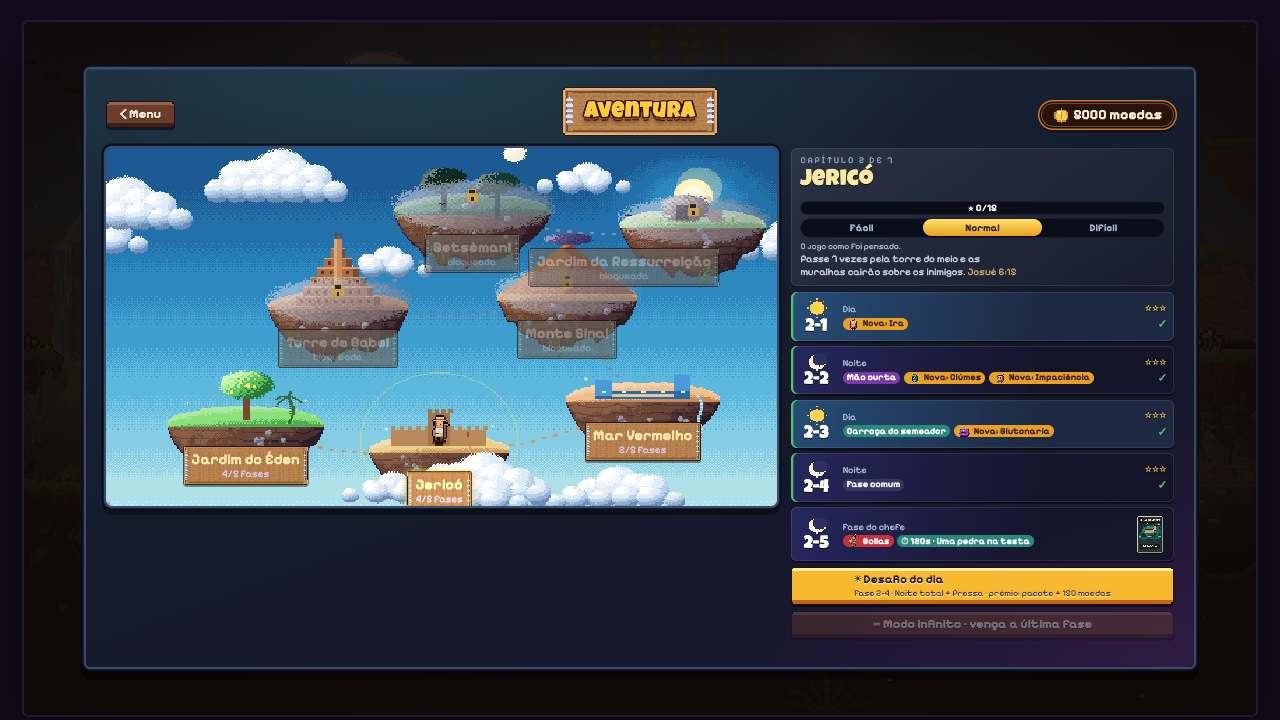
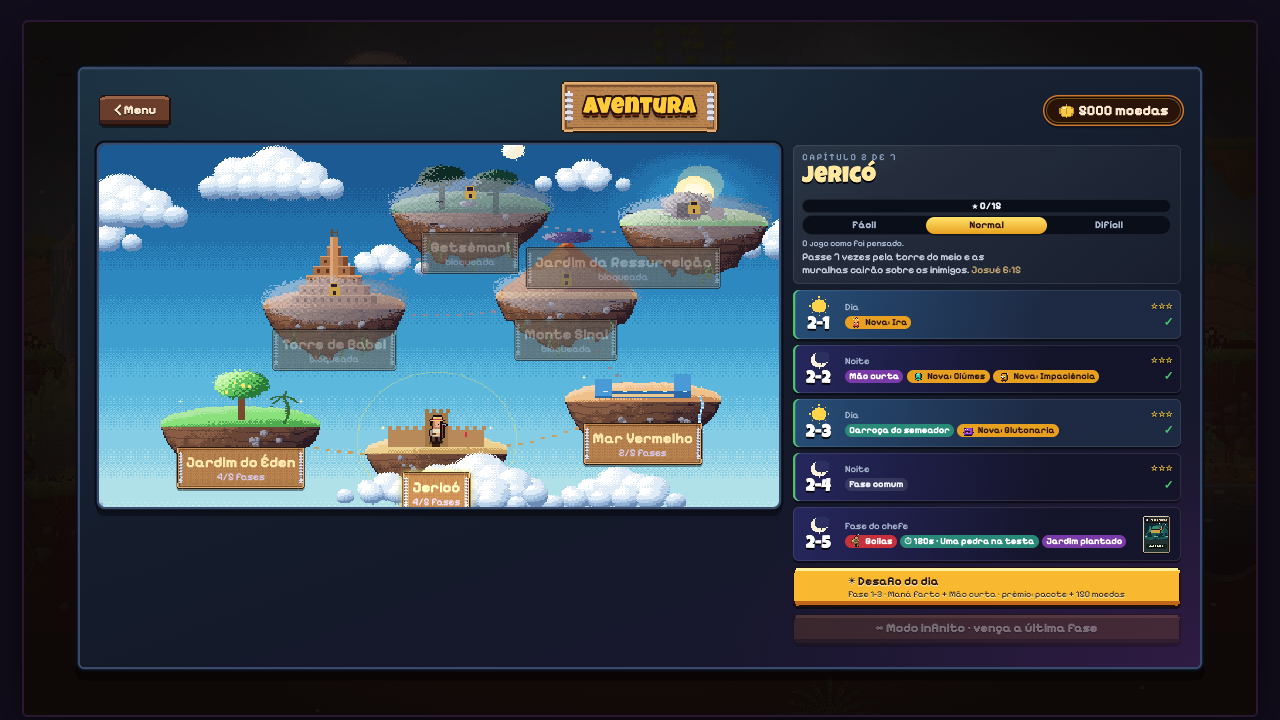
Polimento: céu noturno frio, setas e fúria dos chefes, modos de fase, Códex com descobertas
Noite: as fases de noite usam o céu frio em vez do entardecer. Carvalho de
Manre e Cacho de Escol ganham evolução final e uma fusão cada.

Chefes: setas na tela mostram onde agir, cada chefe ganha um ataque a mais
na fúria, e três fases jogam em outro modo (jardim já plantado com carroça
só de bênçãos contra Golias e o Bezerro; neblina contra Ninrode).

Códex: fusões e evoluções ficam ocultas até serem feitas. Contador de
árvores ao lado da mão; marca de plantio vermelha com o jardim cheio.
Tutorial atualizado para o plantio livre e as fases de chefe.

Duas relíquias (Cordel de Medir, Podão do Vinhateiro) e três conquistas.

Changed region(s): [[0.0625, 0.0917, 0.9375, 0.9167]]

diff --git a/js/ui.js b/js/ui.js
@@ -59,7 +59,7 @@ function updHUD(){
   const ab=$('abilbtn');if(ab){const f=(S.abil||0)/abilCD();ab.style.setProperty('--cd',f);ab.classList.toggle('ready',f<=0)}
   $('fruits').hidden=!sysOn('fruitset');
   const sh=[sysOn('basket')?'Cesto '+S.basket+'/5'+(S.basket>=5?' · pisão de colheita!':''):''];
-  if(S.tw)sh.unshift('Árvores '+treesNow()+'/'+treeCap());
+  {const tc=$('treecap'),n=treesNow(),c=treeCap();tc.textContent='Árvores '+n+'/'+c;tc.classList.toggle('full',n>=c)}
   if(MAPID==='jerico')sh.push(S.fallen?'As muralhas caíram':'Voltas pela torre: '+S.laps+'/7');
   if(S.folk)sh.push(S.folk.saved?'O povo atravessou':'Leve o povo à outra margem');
   if(S.idol)sh.push(S.idol.hp>0?'Ídolo: faltam '+S.idol.hp+' pisões':'Ídolo destruído');
@@ -87,9 +87,9 @@ let tutTree=-1;
 const freeBed=()=>{let b=-1,bd=1e9;MAP.slots.forEach((s,i)=>{if(S.tw[i]||s.y<150||MAP.plats.some(p=>s.x>p.x-6&&s.x<p.x+p.w+6&&p.y<s.y))return;const d=Math.abs(s.x-S.p.x)+(s.x<S.p.x?40:0);if(d<bd){bd=d;b=i}});return b};
 const handIdx=f=>S.hand.findIndex(c=>c&&f(c));
 const TUT=[
-  {id:'walk',keys:['←','→'],txt:'Ande até o canteiro',world:()=>{const i=freeBed();return i<0?null:MAP.slots[i]},done:()=>S.p.moved>30},
+  {id:'walk',keys:['←','→'],txt:'Ande até um bom lugar',world:()=>{const i=freeBed();return i<0?null:MAP.slots[i]},done:()=>S.p.moved>30},
   {id:'jump',keys:['↑'],txt:'Pule',world:()=>({x:S.p.x,y:S.p.y-26}),done:()=>S.p.jumped},
-  {id:'plant',keys:['1'],txt:'Pare no canteiro e plante',world:()=>{const i=freeBed();return i<0?null:MAP.slots[i]},card:()=>handIdx(c=>info(c).kinds)},
+  {id:'plant',keys:['1'],txt:'Pare e plante: vale qualquer chão',world:()=>{const i=freeBed();return i<0?null:MAP.slots[i]},card:()=>handIdx(c=>info(c).kinds)},
   {id:'water',keys:[],txt:'Fique perto: ela é regada e cresce',world:()=>tutTree>=0?{x:MAP.slots[tutTree].x,y:MAP.slots[tutTree].y-22}:null,done:()=>tutTree>=0&&S.tw[tutTree]&&(S.tw[tutTree].water||0)>=1},
   {id:'slam',keys:['↑','↓'],txt:'Pule e caia em cima dela',world:()=>tutTree>=0?{x:MAP.slots[tutTree].x,y:MAP.slots[tutTree].y-34}:null},
   {id:'bless',keys:['2'],txt:'Use a bênção',card:()=>handIdx(c=>catOf(c)==='bencao'),enter:()=>{
@@ -180,7 +180,7 @@ function showTitle(){
       <button class="btn ghost" data-go="daily">Desafio diário${best!=null?' · recorde '+best:''}</button>
       <div class="row"><button class="btn ghost" data-go="codex">Códex</button><button class="btn ghost" data-go="achs">Conquistas ${Object.keys(META.ach).length}/${Object.keys(ACH).length}</button></div>
     </div>
-    <p class="keys">← → andar · ↑ pular · ↓ no ar: pisão · 1 a 4 jogar carta (ou toque na carta e depois no canteiro) · Enter chama a onda · M som</p></div>`);
+    <p class="keys">← → andar · ↑ pular · ↓ no ar: pisão · 1 a 4 jogar carta (ou arraste a carta até onde quer plantar) · Enter chama a onda · M som</p></div>`);
 }
 GO.cont=()=>{const sv=store.get('fds-run',null);if(!sv)return showTitle();RUN=sv.RUN;UID=sv.UID;initAudio();RUN.needDeck?showDeck():showJourney()};
 GO.newrun=()=>showChars();
@@ -322,7 +322,7 @@ function pickCards(title,sub,filter,n,onDone){
     $('skip').onclick=()=>onDone(null);$('go').onclick=()=>onDone(chosen)};render();
 }
 function prune(c){RUN.deck=RUN.deck.filter(k=>k!==c);RUN.coll=RUN.coll.filter(k=>k!==c);RUN.podas++;META.stats.podas++;saveMeta();if(META.stats.podas>=10)unlockAch('poda')}
-function graft(a,b){const h=mk('hyb',{hyb:[a.k,b.k],rare:a.rare||b.rare});[a,b].forEach(c=>{RUN.deck=RUN.deck.filter(k=>k!==c);RUN.coll=RUN.coll.filter(k=>k!==c)});RUN.deck.push(h);RUN.coll.push(h);return h}
+function graft(a,b){const h=mk('hyb',{hyb:[a.k,b.k],rare:a.rare||b.rare});{const F=fusionOf(a.k,b.k);if(F)discover('f',F.a+'+'+F.b)}[a,b].forEach(c=>{RUN.deck=RUN.deck.filter(k=>k!==c);RUN.coll=RUN.coll.filter(k=>k!==c)});RUN.deck.push(h);RUN.coll.push(h);return h}
 const baseSeed=c=>!c.hyb&&CARDS[c.k].type==='semente';
 function podaMany(n,then){const loop=left=>{if(!left||RUN.deck.length<=6)return then();
   pickCards('Podar','Escolha uma carta para sair da bolsa. Ainda pode podar '+left+'. A bolsa precisa de pelo menos 6.',()=>true,1,ch=>{if(!ch)return then();prune(ch[0]);loop(left-1)})};loop(n)}
@@ -502,9 +502,13 @@ function showCodex(tab){
   if(tab==='vizinhas')body=`<div class="ccrules"><span style="--c:#4faa4a">Árvores a até 72 passos se ligam por ramos</span><span style="--c:#e8a020">Frutos diferentes juntos: +10% de dano</span><span style="--c:#9b5ae0">Perto de uma Videira: +25% (João 15:5)</span><span style="--c:#c8403a">A Discórdia corta ramos ao passar por baixo</span></div>
     <div class="grid ccg pairs">${PAIRS.map((p,i)=>ccard({col:FRUIT_COL[FRUIT[p.a]],name:p.name,art:`<canvas width="288" height="144" data-pair="${i}"></canvas>`,body:`<b class="ccsub">${CARDS[p.a].name} + ${CARDS[p.b].name}</b><p>Juntas, ${p.desc}.</p>`,ref:p.ref})).join('')}</div>
     <h3 class="cxh">Fusões</h3><div class="ccrules"><span style="--c:#7a4aa0">No Altar, enxerte estas duas sementes: a árvore nasce com força total e um poder próprio</span></div>
-    <div class="grid ccg pairs">${FUSIONS.map((f,i)=>ccard({col:FRUIT_COL[FRUIT[f.a]]||'#7a4aa0',name:f.name,art:`<canvas width="288" height="144" data-fusion="${i}"></canvas>`,body:`<b class="ccsub">${CARDS[f.a].name} + ${CARDS[f.b].name}</b><p>${f.desc} (a cada ${f.every}s)</p>`,ref:f.ref})).join('')}</div>
+    <p class="help">${FUSIONS.filter(f=>(META.seen.f||{})[f.a+'+'+f.b]).length} de ${FUSIONS.length} fusões descobertas.</p>
+    <div class="grid ccg pairs">${FUSIONS.map((f,i)=>(META.seen.f||{})[f.a+'+'+f.b]?ccard({col:FRUIT_COL[FRUIT[f.a]]||'#7a4aa0',name:f.name,art:`<canvas width="288" height="144" data-fusion="${i}"></canvas>`,body:`<b class="ccsub">${CARDS[f.a].name} + ${CARDS[f.b].name}</b><p>${f.desc} (a cada ${f.every}s)</p>`,ref:f.ref})
+      :ccard({col:'#3a3040',name:'???',cls:'unk',art:'',body:`<b class="ccsub">${CARDS[f.a].name} + ???</b><p>Enxerte para descobrir.</p>`})).join('')}</div>
     <h3 class="cxh">Evoluções</h3><div class="ccrules"><span style="--c:#e8a020">Depois de escolher o galho, toque na árvore e evolua por ${EVO_COST} de maná: +20% de dano e um poder próprio</span></div>
-    <div class="grid ccg">${Object.entries(EVO).map(([k,v])=>ccard({col:FRUIT_COL[FRUIT[k]]||'#5a8a4a',name:v.name,tag:CARDS[k].name,art:`<canvas width="32" height="32" data-evo="${k}"></canvas>`,body:`<p>${v.desc} (a cada ${v.every}s)</p>`,ref:v.ref})).join('')}</div>`;
+    <p class="help">${Object.keys(EVO).filter(k=>(META.seen.v||{})[k]).length} de ${Object.keys(EVO).length} evoluções descobertas.</p>
+    <div class="grid ccg">${Object.entries(EVO).map(([k,v])=>(META.seen.v||{})[k]?ccard({col:FRUIT_COL[FRUIT[k]]||'#5a8a4a',name:v.name,tag:CARDS[k].name,art:`<canvas width="32" height="32" data-evo="${k}"></canvas>`,body:`<p>${v.desc} (a cada ${v.every}s)</p>`,ref:v.ref})
+      :ccard({col:'#3a3040',name:'???',tag:CARDS[k].name,cls:'unk',art:`<canvas width="32" height="32" data-evo="${k}"></canvas>`,body:'<p>Evolua esta árvore numa batalha para descobrir.</p>'})).join('')}</div>`;
   if(tab==='inimigos')body=`<p class="help">Passe o mouse numa carta para ver a praga se mexer.</p><div class="grid ccg">${Object.entries(EN).filter(([,d])=>!d.hide).sort(([a],[b])=>{const o=k=>{const i=PEST_ORDER.indexOf(k);return i<0?99:i};return o(a)-o(b)}).map(([k,d])=>{const seen=META.seen.e[k];
     return seen?ccard({col:d.c,name:d.name,tag:d.boss?'Chefe':d.elite?'Elite':'',art:`<canvas width="48" height="48" data-enemy="${k}" data-anim="${k}"></canvas>`,
       body:`<div class="cattr">${[['Vida',lvlOf(d.hp,[4,8,12,30]),'#ff5a6a'],['Velocidade',lvlOf(d.spd,[12,18,25,33]),'#5ad0ff'],['Dano',lvlOf(d.dmg,[2,3,5,8]),'#ffa040']].map(([l,v,c])=>`<span>${l}</span><i style="--c:${c}">${[1,2,3,4,5].map(n=>`<u class="${n<=v?'on':''}"></u>`).join('')}</i>`).join('')}</div>

diff --git a/js/bosses.js b/js/bosses.js
@@ -5,7 +5,10 @@ function bossStageStart(L){const B=BSTAGE[L.wi];
   S.hand=[null,null,null,null,null];S.draw=[];S.convT=.5;RUN.handSize=5;renderHand();
   if(B.boss==='leviata')S.bs.hook={x:Math.round(MAP.ww*.55)};
   if(B.boss==='sombra')S.bs.lamps=[.28,.5,.72].map(f=>({x:Math.round(MAP.ww*f),lit:0}));
-  banner('Fase do chefe · '+B.ref,B.rule);toast(EN[B.boss].name+': '+B.rule,B.tip)}
+  // a garden already planted for the stages that bring only blessings: the beds nearest home, grown and ready
+  if(B.pre){const beds=MAP.slots.map((s,i)=>[s,i]).filter(([s])=>!s.free&&s.soil!=='pedra'&&Math.abs(s.y-gy(s.x))<2).sort((a,b)=>a[0].x-b[0].x);
+    B.pre.forEach((k,j)=>{if(!beds[j])return;const i=beds[j][1];plantAt(i,[k],false,0);Object.assign(S.tw[i],{grow:1,lvl:1,water:1})})}
+  banner('Fase do chefe · '+B.ref,B.rule);toast(EN[B.boss].name+': '+B.rule,B.tip);if(B.mode)toast('Modo da fase',B.mode)}
 
 function bossStageUpdate(dt){const B=S.bstage,Z=S.bs;
   // the seed cart: free cards from this boss's own list, mana always full
@@ -19,6 +22,13 @@ function bossStageUpdate(dt){const B=S.bstage,Z=S.bs;
   // escorts from this world keep coming while the boss lives
   Z.escT-=dt;if(Z.escT<=0){Z.escT=e.ph2?5.5:7.5;const pool=levelPool(BSTAGE.indexOf(B)*4+3);spawn(rpick(pool));S.total++}
   const P=S.p;
+  // furious, every boss gains one more attack of its own (Goliath shakes the ground, Nimrod shoots the trees: see below and bossAIx)
+  if(e.ph2&&!(e.dive>0)){Z.p2=(Z.p2??4)-dt;if(Z.p2<=0){Z.p2=9;const ahead=(rad,n)=>MAP.slots.map((s,i)=>[s,S.tw[i],i]).filter(([s,t])=>t&&t.grow>=1&&!(t.ark>0)&&Math.abs(s.x-e.x)<rad).sort((a,b)=>Math.abs(a[0].x-e.x)-Math.abs(b[0].x-e.x)).slice(0,n);
+      if(e.k==='serpente')ahead(130,1).forEach(([s,t])=>{t.joio=true;S.fx.push({k:'zap',x1:e.x-EN.serpente.w*.42,y1:e.y-24,x2:s.x,y2:s.y-12,t:0,max:.4});pop(s.x,s.y-34,'envenenada! um pisão limpa','#9ff05a',8);burst(s.x,s.y-10,12,['#9ff05a','#2f7a2f'],50,120,.6)});
+      if(e.k==='farao'){e.x-=36;for(const f of S.fences)if(Math.abs(f.x-e.x)<44)f.hp=0;shake(8);sfx('horn');pop(e.x,e.y-EN.farao.h-8,'os carros avançam!','#5a8aff',9);burst(e.x+20,e.y-4,16,['#e8c890','#c9a070'],90,120,.5)}
+      if(e.k==='bezerro')ahead(150,2).forEach(([s,t,i])=>{if(acaciaGuard(i))return;t.seduced=true;pop(s.x,s.y-34,'ofuscada pelo ouro: pisão liberta','#ffe36a',8)});
+      if(e.k==='leviata'){shake(8);sfx('splash');S.fx.push({k:'ring',x:e.x,y:e.y-6,r:4,max:110,t:0,c:'#5af0c0'});ahead(110,9).forEach(([s,t])=>{t.stun=Math.max(t.stun,2);pop(s.x,s.y-30,'a cauda varreu','#5af0c0',7)});if(Math.abs(P.x-e.x)<80&&!(S.shieldT>0)){P.stun=.6;P.vx=-160;P.vy=-120;P.on=false}}
+      if(e.k==='sombra'){const l=Z.lamps.find(l=>l.lit>0);if(l){l.lit=0;pop(l.x,gy(l.x)-40,'a Sombra apagou a lâmpada','#a080ff',8);sfx('wind')}}}}
   if(B.boss==='golias'){
     // smooth stones from the brook (1 Sm 17:40): walk over one and it flies at Goliath's forehead
     Z.stoneT-=dt;if(Z.stoneT<=0&&Z.stones.length<3){Z.stoneT=8;const x0=clamp(rnd(S.cam+30,Math.min(e.x-50,S.cam+W-40)),20,MAP.ww-20);Z.stones.push({x:x0,t:0});pop(x0,gy(x0)-14,'pedra lisa','#d0d0d8',8)}
@@ -65,7 +75,15 @@ function bossHud(){const Z=S.bs,B=S.bstage;if(!Z)return'';const e=Z.boss,m=Math.
   return B.rule+' · ⏱ '+m+':'+s+(B.boss==='golias'?' · pedras: '+S.pstones:'')+(B.boss==='sombra'?' · lâmpadas '+Z.lamps.filter(l=>l.lit>0).length+'/3':'')}
 
 // stones in the brook, the golden hook, the lamps on their posts
-function drawBossStage(){const Z=S.bs;if(!Z)return;
+// a bobbing arrow with a word over the thing the rule is about: the head when it is down, a stone, the hook, a dark lamp
+function bossArrow(ax,ay,txt,c='#ffe36a'){const y=ay+Math.round(Math.sin(S.t*6)*2);r(ax-3,y,7,2,'#1a0c10');r(ax-2,y+2,5,1,'#1a0c10');r(ax-1,y+3,3,1,'#1a0c10');r(ax-1,y-4,3,4,'#1a0c10');
+  r(ax-.5,y-3.5,2,4,c);r(ax-2.5,y,6,1,c);r(ax-1.5,y+1,4,1,c);r(ax-.5,y+2,2,1,c);if(txt){x.font='700 6px "Pixelify Sans", monospace';x.textAlign='center';x.lineJoin='round';x.lineWidth=2;x.strokeStyle='#1a0806';x.strokeText(txt,ax,y-6);x.fillStyle=c;x.fillText(txt,ax,y-6)}}
+function drawBossFog(){const P=S.p,c0=S.cam-4,c1=S.cam+W+4;x.fillStyle='#b8b0c8';for(let u=c0;u<c1;u+=4){const d=Math.abs(u+2-P.x),a=clamp((d-70)/50,0,1)*.88;if(a<=0)continue;x.globalAlpha=a*(.92+.08*Math.sin(S.t*1.3+u*.05));x.fillRect(u,20,4,H)}x.globalAlpha=1}
+function drawBossStage(){const Z=S.bs;if(!Z)return;{const e=Z.boss;if(e&&e.hp>0&&live()){
+    if(e.k==='serpente'&&e.headDown>0)bossArrow(e.x-EN.serpente.w*.42,e.y-34,'pisão na cabeça!');
+    for(const s of Z.stones)bossArrow(s.x,gy(s.x)-14,'pedra');
+    if(Z.hook&&!(e.dive>0)&&Math.abs(e.x-Z.hook.x)<60&&!(e.hooked>0))bossArrow(Z.hook.x,gy(Z.hook.x)-44,'pisão no anzol!');
+    for(const l of Z.lamps)if(!l.lit)bossArrow(l.x,gy(l.x)-46,'acenda','#ffe9a0')}}
   for(const s of Z.stones){const y=gy(s.x)-2+Math.round(Math.sin(s.t*4)),f=(S.t*6|0)%2;disc(s.x,y,2.5,'#9a9aa8');r(s.x-1,y-2,2,1,'#e0e0e8');if(f){r(s.x+3,y-5,1,1,'#ffffff');r(s.x-4,y-4,1,1,'#ffffff')}}
   if(Z.hook){const hx=Z.hook.x,gyy=gy(hx),sw=Math.round(Math.sin(S.t*2)*2),hy=gyy-26;for(let y=0;y<hy;y+=2)r(hx+Math.round(sw*y/hy),y,1,1,'#c8b090');
     r(hx+sw-1,hy,3,6,'#f7c948');r(hx+sw-3,hy+5,3,2,'#f7c948');r(hx+sw-3,hy+3,1,2,'#f7c948');r(hx+sw,hy,1,1,'#fff6c0');

diff --git a/js/game.js b/js/game.js
@@ -2,7 +2,7 @@
 let S=null,RUN=null;
 // saved progress is merged over these defaults key by key (nested objects too), so saves from older versions gain new fields
 const META_DEFAULTS={celeiro:store.get('jardim-do-fruto-celeiro',[]),chars:{lavrador:1},ascMax:0,stats:{kills:0,podas:0,runs:0,wins:0},ach:{},tut:0,daily:{},
-  coins:0,char:'lavrador',weapon:'enxada',weapons:{enxada:1},items:{cerca:2,espantalho:1,lama:2},upg:{hearts:0,bag:0,mana:0,treeHearts:0,trees:0},wtier:{},itier:{},done:{},unlocked:['videira','mana'],seen:{c:{},e:{},r:{}},
+  coins:0,char:'lavrador',weapon:'enxada',weapons:{enxada:1},items:{cerca:2,espantalho:1,lama:2},upg:{hearts:0,bag:0,mana:0,treeHearts:0,trees:0},wtier:{},itier:{},done:{},unlocked:['videira','mana'],seen:{c:{},e:{},r:{},f:{},v:{}},
   garden:{pots:[],potsN:8,seeds:{trigo:2,'t:videira':1},adubo:1,spray:3,mel:1,fertil:0,treeSeed:0,tree:{planted:false,lvl:0,xp:0,lastWater:0},lastVisit:0},
   stars:{},talents:{},cardLv:{},copies:{},foil:{},sysSeen:{},dlg:{},endless:{},mg:{},missions:null,intro:0,v:2};
 function fillDefaults(t,d){for(const k in d){const dv=d[k];if(t[k]===undefined||t[k]===null&&dv!==null)t[k]=structuredClone(dv);
@@ -230,7 +230,7 @@ function doSlam(){if(S.bstage)bossStomp(S.p);mission('slam',1);onoma(S.p.x,S.p.y
 // ---------- a garden holds only so many trees: more in later worlds, and more with the Quitanda's "Canteiro extra".
 // With planting free everywhere, the limit is what makes you choose: pull one up, or make the ones you have stronger.
 const treesNow=()=>S.tw.filter(Boolean).length;
-function treeCap(){const up=(META.upg&&META.upg.trees)||0;return(RUN&&RUN.mode==='level'?6+LEVELS[RUN.level].wi+(LEVELS[RUN.level].bossStage?3:0):8+(RUN?RUN.act*2:0))+up}
+function treeCap(){const up=(META.upg&&META.upg.trees)||0;return(RUN&&RUN.mode==='level'?6+LEVELS[RUN.level].wi+(LEVELS[RUN.level].bossStage?3:0):8+(RUN?RUN.act*2:0))+up+(relic('canteiro')?2:0)}
 const slotAt=()=>MAP.slots.findIndex(s=>Math.abs(s.x-S.p.x)<12&&Math.abs(s.y-S.p.y)<3);
 
 // ---------- trees
@@ -250,7 +250,7 @@ const footOf=kinds=>Math.max(...kinds.map(k=>FOOT[k]||12))+(kinds.length>1?2:0);
 // the surface nearest to a world point: an island top or the ground
 function surfaceAt(wx,wy){let best=gy(wx),bd=Math.abs(best-8-wy);for(const p of MAP.plats){if(wx<p.x+3||wx>p.x+p.w-3)continue;const d=Math.abs(p.y-8-wy);if(d<bd){bd=d;best=p.y}}return best}
 // why a tree cannot stand here, or '' when it can
-function plantCheck(x0,y0,kinds){if(x0<58)return'perto demais do Éden';if(x0>MAP.ww-46)return'perto demais do portal';
+function plantCheck(x0,y0,kinds){if(treesNow()>=treeCap())return'jardim cheio: '+treeCap()+' árvores';if(x0<58)return'perto demais do Éden';if(x0>MAP.ww-46)return'perto demais do portal';
   const onPl=MAP.plats.some(p=>Math.abs(p.y-y0)<1.5&&x0>=p.x&&x0<=p.x+p.w);
   if(!onPl&&(inWater(x0)||MAP.sea&&x0>=MAP.sea[0]&&x0<MAP.sea[1]))return'na água não cresce';
   if(!onPl&&Math.abs(gy(x0)-y0)>3)return'precisa de chão firme';
@@ -266,6 +266,7 @@ function plantAt(si,kinds,rare,delay=.6,plus=false){
   const s=MAP.slots[si];
   if(S.tw[si])burst(s.x,s.y-10,10,['#7a5a3a','#5fe08a'],50,200,.5);
   S.tw[si]={kinds,cd:{},dcd:0,grow:-delay,t:0,pulse:0,soil:s.soil,rare,plus,age:0,lvl:0,joio:false,stun:0,charge:0,heal:0,awake:20,fruitT:rnd(0,6),mods:null,ark:0,seduced:false,sleep:false};
+  if(kinds.length>1){const F=fusionOf(kinds[0],kinds[1]);if(F)discover('f',F.a+'+'+F.b)}
   sfx('card');pop(s.x,s.y-30,...SOIL_MSG[s.soil]);mission('plant',1);
   tutEvent('plant',si);
 }
@@ -721,6 +722,10 @@ const POWER={
   acacia(t,s){pwTrees(s,80).forEach(([o])=>o.ark=Math.max(o.ark||0,4));S.fx.push({k:'ring',x:s.x,y:s.y-14,r:4,max:80,t:0,c:'#f7c948'})},
   murta(t,s){pwTrees(s,80).forEach(([o,q])=>water(o,q,1))},
   nogueira(t,s,m){const L=pwNear(s,90);if(!L.length)return false;L.forEach(e=>{breakShell(e);damage(e,8*m,'nogueira')});shake(5)},
+  carvalho(t,s){const L=S.en.filter(e=>e.hp>0&&!EN[e.k].fly&&Math.abs(e.x-s.x)<50);if(!L.length)return false;L.forEach(e=>e.frz=Math.max(e.frz,EN[e.k].boss?.6:2));S.fx.push({k:'ring',x:s.x,y:s.y-8,r:4,max:50,t:0,c:'#8ac060'})},
+  escol(t,s,m){const L=pwNear(s,130).slice(0,3);if(!L.length)return false;L.forEach(e=>lob(s.x,s.y-22,e,'cluster',9*m,'escol',.7))},
+  'carvalho+oliveira'(t,s){const L=S.en.filter(e=>e.hp>0&&!EN[e.k].fly&&Math.abs(e.x-s.x)<50);if(!L.length)return false;L.forEach(e=>e.frz=Math.max(e.frz,EN[e.k].boss?.5:1.5));S.fx.push({k:'ring',x:s.x,y:s.y-8,r:4,max:50,t:0,c:'#9fe8ff'})},
+  'escol+videira'(t,s,m){S.mana=Math.min(MAXM,S.mana+2);const e=nearest(s.x,s.y-16,120);if(e)lob(s.x,s.y-22,e,'cluster',9*m,'escol',.7)},
   'videira+macieira'(t,s){S.mana=Math.min(MAXM,S.mana+2);pop(s.x,s.y-30,'+2 maná','#c58cff')},
   'roma+sarca'(t,s,m){if(!pwNear(s,40).length)return false;beam(s.x,18,12*m)},
   'oliveira+salgueiro'(t,s){const L=pwNear(s,90);if(!L.length)return false;L.forEach(e=>e.slow=Math.max(e.slow,3));S.fx.push({k:'ring',x:s.x,y:s.y-10,r:4,max:90,t:0,c:'#9fe8ff'})},

diff --git a/js/content.js b/js/content.js
@@ -417,3 +417,23 @@ POOL.push('carvalho','escol','carruagem','multiplica','maos','lazaro','sol','dil
 Object.assign(STATS,{carvalho:{dmg:'2/s',rng:45,cd:'sempre'},escol:{dmg:'8',rng:105,cd:'2,5s'}});
 Object.assign(SHORT,{carvalho:'Sombra que deixa lento e fere.',escol:'Cachos enormes que estouram em área.',carruagem:'16 de dano em tudo à sua frente.',multiplica:'+1 de maná por árvore (até 8).',
   maos:'Árvores com +60% de dano por 12s.',lazaro:'Éden recupera metade da Vida perdida.',sol:'Pragas paradas por 5s.',diluvio:'18 de dano no chão e arrasta tudo.',anjo:'Derrota a praga mais forte.',ceifa:'Ceifa as pragas quase vencidas.'});
+
+// ---------- polish round: the two newest trees get their full form and a fusion, two relics and three achievements
+// tie into free planting, evolutions and boss stages, and three boss stages play by a different mode
+EVO.carvalho={name:'Carvalho de Justiça',ref:'Isaías 61:3',every:6,desc:'Prende por 2s as pragas debaixo da sombra.'};
+EVO.escol={name:'Fruto da Terra Prometida',ref:'Números 13:27',every:7,desc:'Chovem três cachos enormes.'};
+FUSIONS.push({a:'carvalho',b:'oliveira',name:'Sombra e Azeite',ref:'Oseias 14:6',every:6,desc:'Congela por 1,5s quem está debaixo da sombra.'},
+  {a:'escol',b:'videira',name:'Terra que Mana Leite e Mel',ref:'Números 13:27',every:6,desc:'+2 de maná e um cacho enorme na praga mais perto.'});
+Object.assign(RELICS,{canteiro:{name:'Cordel de Medir',ref:'Zacarias 2:1',desc:'O jardim comporta 2 árvores a mais.'},
+  podao:{name:'Podão do Vinhateiro',ref:'Isaías 18:5',desc:'A evolução final das árvores custa 4 de maná em vez de 7.'}});
+const evoCost=()=>relic('podao')?4:EVO_COST;
+Object.assign(ACH,{ileso:{name:'Nenhum mal te sucederá',ref:'Salmos 91:10',desc:'Vença uma fase de chefe sem o Éden perder Vida.'},
+  enxertador:{name:'Enxertado na oliveira',ref:'Romanos 11:17',desc:'Descubra todas as fusões.'},
+  pleno:{name:'Plantada junto às águas',ref:'Salmos 1:3',desc:'Evolua todas as árvores até a forma final.'}});
+// fusions and evolutions are discovered by making them; the Codex shows the rest as still unknown
+function discover(kind,id){const s=META.seen;s[kind]=s[kind]||{};if(s[kind][id])return;s[kind][id]=1;saveMeta();
+  if(kind==='f'&&FUSIONS.every(f=>s.f[f.a+'+'+f.b]))unlockAch('enxertador');if(kind==='v'&&Object.keys(EVO).every(k=>s.v[k]))unlockAch('pleno')}
+// boss stage modes: Goliath and the calf are fought with a garden already planted and a cart of blessings only; Nimrod hides in fog
+Object.assign(BSTAGE[1],{mode:'Jardim plantado: só bênçãos na carroça',pre:['videira','roma','oliveira','cedro'],belt:['pedras','pedra','jerico','chuva','vento','escudo','espada','regar']});
+Object.assign(BSTAGE[3],{mode:'Jardim plantado: só bênçãos na carroça',pre:['sarca','sarca','acacia','hissopo'],belt:['fogo','linguas','luz','carruagem','sal','paz','chuva','regar']});
+Object.assign(BSTAGE[4],{mode:'Neblina: só se vê perto de você',fog:1});

diff --git a/js/draw.js b/js/draw.js
@@ -172,6 +172,8 @@ const RICONS={
   jarro(){r(10,10,12,16,'#b0703a');r(12,6,8,4,'#b0703a');r(11,26,10,2,'#8a5028');r(13,4,6,2,'#f7c948');r(12,12,2,8,'#d09050')},
   paes(){disc(10,20,5,'#d9a050');disc(18,22,5,'#c98a40');disc(24,18,4,'#d9a050');r(4,10,12,4,'#7ac0f0');r(18,8,10,4,'#7ac0f0')},
   trombeta(){for(let i=0;i<14;i++)r(4+i*1.6,22-i*.9,2,1+(i/5|0),'#d9b07a');r(26,6,4,6,'#e8c890');r(4,26,6,4,'#f7c948')},
+  canteiro(){r(4,24,24,4,'#6a3a24');r(4,24,24,1,'#9a6040');for(let i=0;i<4;i++){r(6+i*6,16,1,8,'#5fe08a');r(5+i*6,15,3,2,'#9ff7b8')}r(3,10,26,1,'#e8dcc0');r(3,8,2,5,'#8a5a3a');r(27,8,2,5,'#8a5a3a')},
+  podao(){for(let i=0;i<12;i++)r(6+i,24-i,3,2,'#8a5a3a');for(let i=0;i<9;i++){const a=-.3-i*.2;r(20+Math.cos(a)*7,12+Math.sin(a)*7,2,2,'#d8d8e8')}r(18,10,3,3,'#a8a8b8');r(4,26,4,3,'#6a3a24')},
   lampada(){r(8,18,16,6,'#c9a24a');r(22,16,5,3,'#c9a24a');r(12,10,4,8,'#ff9a3c');r(13,8,2,4,'#ffe36a')}
 };
 function relicIconTo(cvs,k){const g=cvs.getContext('2d');g.clearRect(0,0,32,32);C=g;RICONS[k]();C=x}
@@ -317,7 +319,7 @@ function drawTree(t,s,i){
   if(t.ark>0){x.globalAlpha=.4+Math.sin(S.t*5)*.2;ring(s.x,s.y-14,16,'#f7c948');x.globalAlpha=1}
   // grown and not yet evolved: a bobbing gold arrow says "touch me"
   const evoReady=t.branch&&!t.evo&&EVO[t.kinds[0]];
-  if(((t.lvl||0)>=3&&!t.branch||evoReady)&&t.grow>=1){const ax=s.x+11,ay=s.y-22+Math.round(Math.sin(S.t*5)*2),c=S.mana>=(evoReady?EVO_COST:BRANCH_COST)?'#ffd23a':'#8a8a9a';r(ax-1,ay,3,4,c);r(ax-3,ay,7,1,c);r(ax-2,ay-1,5,1,c);r(ax-1,ay-2,3,1,c);r(ax,ay-3,1,1,c)}
+  if(((t.lvl||0)>=3&&!t.branch||evoReady)&&t.grow>=1){const ax=s.x+11,ay=s.y-22+Math.round(Math.sin(S.t*5)*2),c=S.mana>=(evoReady?evoCost():BRANCH_COST)?'#ffd23a':'#8a8a9a';r(ax-1,ay,3,4,c);r(ax-3,ay,7,1,c);r(ax-2,ay-1,5,1,c);r(ax-1,ay-2,3,1,c);r(ax,ay-3,1,1,c)}
 }
 // enemies leave a quick squash-and-fade instead of vanishing
 function drawCorpses(){for(const f of S.fx){if(f.k!=='corpse')continue;const k=f.t/f.max,e=f.e;x.globalAlpha=1-k;x.save();x.translate(e.x,e.y);x.scale(1+k*.8,Math.max(.05,1-k*.9));x.translate(-e.x,-e.y);
@@ -397,7 +399,7 @@ function draw(){
   drawSea();drawDragPreview();
   if(S.state!=='title')drawGardener(P);
   drawTutWorld();
-  drawProj();drawBeams();drawDrops();drawFruitDrops();drawParts();drawVfx();
+  drawProj();drawBeams();drawDrops();drawFruitDrops();drawParts();drawVfx();if(S.bstage&&S.bstage.fog)drawBossFog();
   for(const e of S.en)if(!(e.dive>0)&&!(S.mini==='escuro'&&!darkVisible(e)))drawIntent(e);
   x.textAlign='center';
   for(const p of S.pops){const k=p.size>8?1+Math.max(0,.14-p.t)*5:1;x.globalAlpha=Math.min(1,(1-p.t/.9)*2);x.save();x.translate(p.x,p.y-p.t*22);x.scale(k,k);

diff --git a/js/meta.js b/js/meta.js
@@ -213,7 +213,7 @@ function showWorld(sel){
   // one card per level: number, sky, what is special about it, who is new, the stars won and the prize of the first win
   const card=l=>{const open=levelOpen(l.n),done=META.done[l.id],unl=UNLOCK_ORDER[l.n],nu=(PEST_INTRO[l.n]||[]),isNext=next&&next.n===l.n;
     const chips=[l.boss?`<span class="lc boss"><canvas width="48" height="48" data-enemy="${l.boss}"></canvas>${EN[l.boss].name}</span>`:'',
-      l.rule?`<span class="lc rule">${RULES[l.rule].name}</span>`:'',l.goal?`<span class="lc goal">${GOALS[l.goal].name}</span>`:'',l.bossStage?`<span class="lc goal">⏱ ${BSTAGE[l.wi].time}s · ${BSTAGE[l.wi].rule}</span>`:'',
+      l.rule?`<span class="lc rule">${RULES[l.rule].name}</span>`:'',l.goal?`<span class="lc goal">${GOALS[l.goal].name}</span>`:'',l.bossStage?`<span class="lc goal">⏱ ${BSTAGE[l.wi].time}s · ${BSTAGE[l.wi].rule}</span>`+(BSTAGE[l.wi].mode?`<span class="lc rule">${BSTAGE[l.wi].mode.split(':')[0]}</span>`:''):'',
       ...nu.map(k=>`<span class="lc new"><canvas width="48" height="48" data-enemy="${k}"></canvas>Nova: ${EN[k].name}</span>`)].join('');
     const prize=done?`<span class="lprize got">✓</span>`:unl&&!META.unlocked.includes(unl)?`<span class="lprize card" title="Carta: ${CARDS[unl].name}"><canvas width="${MINI_W*CK}" height="${MINI_H*CK}" data-mini-unl="${unl}"></canvas></span>`:`<span class="lprize coin"><canvas width="12" height="12" class="coin"></canvas></span>`;
     return`<button type="button" class="lvcard ${l.night?'night':'day'} ${done?'done':''} ${isNext?'next':''} ${open?'':'locked'}" data-l="${l.n}" ${open?'':'disabled'}>
@@ -274,6 +274,7 @@ function levelWon(){
   const L=LEVELS[RUN.level],first=!META.done[L.id],treeBonus=1+(META.garden.tree.lvl||0)*.05;
   const D=diffNow(),reward=Math.round((first?60+L.n*20:30+L.n*5)*treeBonus*D.coin),picked=Math.round(S.coins*treeBonus);
   META.coins+=reward+picked;META.done[L.id]=1;const stars=Math.min(D.stars,RUN.hp>=18?3:RUN.hp>=10?2:1);if(RUN.diff==='dificil'){META.crown=META.crown||{};META.crown[L.id]=1}META.stars=META.stars||{};const newBest=stars>(META.stars[L.id]||0);META.stars[L.id]=Math.max(stars,META.stars[L.id]||0);
+  if(L.bossStage&&RUN.hp>=RUN.maxhp)unlockAch('ileso');
   let card=null;const unl=UNLOCK_ORDER[L.n];if(first&&unl&&!META.unlocked.includes(unl)){META.unlocked.push(unl);card=mk(unl)}if(first&&L.boss)META.gifts=(META.gifts||0)+1;
   saveMeta();MUS.mode='calm';mission('win',1);if(stars===3)mission('star3',1);
   // every win leaves a seedling of a tree you know in the greenhouse

diff --git a/js/td.js b/js/td.js
@@ -47,14 +47,14 @@ function openTree(si){const t=S.tw[si],s=MAP.slots[si];if(!t)return closeTree();
     ${fu?`<p class="tbr">Fusão · ${fu.name}: ${fu.desc}</p>`:''}
     ${t.branch?`<p class="tbr">${br[t.branch==='a'?0:1]}: ${t.branch==='a'?'+70% de dano':'+50% de velocidade e +30% de alcance'}</p>`+
       (!ev?'':t.evo?`<p class="tbr">${ev.name}: +20% de dano. ${ev.desc} (a cada ${ev.every}s)</p>`
-        :`<div class="tbtns"><button class="btn sm" id="tevo">Evoluir: ${ev.name}<small>${ev.desc} · ${EVO_COST} maná</small></button></div>`):
+        :`<div class="tbtns"><button class="btn sm" id="tevo">Evoluir: ${ev.name}<small>${ev.desc} · ${evoCost()} maná</small></button></div>`):
       (t.lvl||0)>=3?`<div class="tbtns"><button class="btn sm" data-br="a">${br[0]}<small>+70% dano · ${BRANCH_COST} maná</small></button><button class="btn sm" data-br="b">${br[1]}<small>mais rápida e longe · ${BRANCH_COST} maná</small></button></div>`
       :`<p class="tbr dim">No nível 4 ela pode evoluir. Regue e sobreviva às ondas.</p>`}
     <button class="btn ghost sm" id="tup">Arrancar · +${refund} maná</button>`;
   el.hidden=false;
   $('tclose').onclick=closeTree;
-  if($('tevo'))$('tevo').onclick=()=>{if(S.mana<EVO_COST){sfx('no');pop(s.x,s.y-30,'falta maná','#c9a99a');return}
-    S.mana-=EVO_COST;t.evo=1;t.pulse=1;t.pw={};sfx('super');flash(.3,'255,240,180');vfx('holy',s.x,0);vfx('sparkle',s.x,s.y-30,{s:5});S.fx.push({k:'ring',x:s.x,y:s.y-14,r:2,max:40,t:0,c:'#f7c948'});
+  if($('tevo'))$('tevo').onclick=()=>{if(S.mana<evoCost()){sfx('no');pop(s.x,s.y-30,'falta maná','#c9a99a');return}
+    S.mana-=evoCost();t.evo=1;discover('v',k);t.pulse=1;t.pw={};sfx('super');flash(.3,'255,240,180');vfx('holy',s.x,0);vfx('sparkle',s.x,s.y-30,{s:5});S.fx.push({k:'ring',x:s.x,y:s.y-14,r:2,max:40,t:0,c:'#f7c948'});
     pop(s.x,s.y-44,ev.name+'!','#f7c948',10);banner('Evolução',ev.name+' · '+ev.ref);mission('evolve',1);openTree(si)};
   $('tup').onclick=()=>{S.tw[si]=null;S.mana=Math.min(MAXM,S.mana+refund);vfx('puff',s.x,s.y-4,{n:6,c:'#8a5a3a'});burst(s.x,s.y-6,12,['#6a3a24','#5fe08a'],60,200,.5);sfx('plant');pop(s.x,s.y-24,'arrancada · +'+refund+' maná','#c58cff');closeTree()};
   el.querySelectorAll('[data-br]').forEach(b=>b.onclick=()=>{if(S.mana<BRANCH_COST){sfx('no');pop(s.x,s.y-30,'falta maná','#c9a99a');return}

diff --git a/js/garden.js b/js/garden.js
@@ -206,11 +206,12 @@ function showTree(){
 // ---------- first-time tutorial: illustrated slides
 const INTRO=[
  ['Bem-vindo ao jardim','Você é o lavrador. As obras da carne (Ódio, Inveja, Discórdia...) querem chegar à árvore do lado esquerdo. Não deixe passar.','gard'],
- ['Plante com cartas','Sua mão tem 4 cartas. Pare sobre um canteiro (os brotinhos) e aperte 1 a 4, ou arraste a carta até ele. Cada carta custa maná, que recarrega sozinho.','card'],
+ ['Plante com cartas','Sua mão tem 4 cartas. Pare em qualquer chão firme e aperte 1 a 4, ou arraste a carta até o lugar. Cada árvore pede seu espaço e o jardim tem um limite de árvores. Os canteiros de boa terra dão +30%.','card'],
  ['Regue para crescer','Fique parado ao lado de uma árvore e o lavrador rega. A cada rega completa ela cresce e sobe de nível; com 3 vira árvore adulta. A chuva e a carta Regar também regam.','water'],
  ['Cada fruto vence uma praga','Romã vence Ódio, Videira vence Inveja, Oliveira vence Discórdia... O dano fica 2,5 vezes maior. Árvores vizinhas se fortalecem.','fruit'],
  ['Lute junto','← → anda, ↑ pula. No ar, ↓ dá um pisão: em cima de uma árvore, solta o poder dela. X golpeia com a ferramenta e C usa o poder especial do seu personagem. Esc pausa, F acelera.','fight'],
  ['Cuidado com as pragas','Encostar nelas tira corações. Sem corações você desmaia e perde maná. Pegue os frutos e as moedas que caem.','hurt'],
+ ['Fases de chefe','A quinta fase de cada mundo é só do chefe: uma carroça traz as cartas, um relógio corre e cada chefe tem uma regra para ser vencido. Leia o aviso no começo da fase.','fight'],
  ['Fora das batalhas','Vença fases para ganhar moedas e cartas novas. Na Loja compre ferramentas e sementes. Depois da fase 1-4 abre o Jardim; a Árvore da Vida vem mais tarde.','shop']];
 // ---------- tutorial art: small animated scenes drawn at 4x, sprites at 2x, so they read clearly
 let introRAF=0,introCard=null;

diff --git a/js/scenery.js b/js/scenery.js
@@ -197,7 +197,7 @@ function paintFG(desert){const mk=(w,h,fn)=>{const c=mkHD(w,h),B=layerBuf(c,'#00
 const SCN_CACHE=new Map();
 function paintScene(lw,day){const key=MAPID+(day?':d':':n'),hit=SCN_CACHE.get(key);
   if(hit){[SKY,FAR,MID,NEAR]=hit.c;Object.assign(MAP,hit.meta);return}
-  const desert=!MAP.pal.grass,mood=['getsemani','abismo'].includes(MAPID)?'night':(MAPID==='tumulo'||MAPID==='ressurreicao')?'dawn':day?'day':'dusk';
+  const desert=!MAP.pal.grass,mood=['getsemani','abismo'].includes(MAPID)?'night':(MAPID==='tumulo'||MAPID==='ressurreicao')?'dawn':day?'day':'night';// night levels wear the cold night sky, not the warm dusk
   const sky=mood==='day'&&desert?SKIES.desert:SKIES[mood],haze=sky[sky.length-2];
   MAP.midFires=[];MAP.falls=[];MAP.smokes=[];MAP.mood=mood;
   SKY=mkHD(W+1,H);FAR=mkHD(lw(PAR[0]),H);MID=mkHD(lw(PAR[1]),H);NEAR=mkHD(lw(PAR[2]),H);

diff --git a/jardim-do-fruto.html b/jardim-do-fruto.html
@@ -30,7 +30,7 @@
   <div id="tut" hidden></div><div id="tutarrow" hidden></div>
   <div id="story" hidden></div>
   <div id="hand" hidden><div id="mbar"><i id="mfill"></i><span id="mtxt">0</span></div>
-    <div id="handrow"><div id="pile" class="cardback" title="Monte de compra"><b id="pilecount">0</b><small>monte</small></div><div id="cards"></div><div id="nextc" class="nextc"></div></div></div>
+    <div id="handrow"><div id="pile" class="cardback" title="Monte de compra"><b id="pilecount">0</b><small>monte</small></div><div id="cards"></div><div id="nextc" class="nextc"></div><div id="treecap" class="treecap"></div></div></div>
   <div id="itembar"></div>
   <div id="touch">
     <div><button data-k="ArrowLeft">←</button><button data-k="ArrowRight">→</button></div>

diff --git a/css/style.css b/css/style.css
@@ -1148,3 +1148,7 @@ body.cb #hpfill{background:linear-gradient(#9ad8ff,#3a8ad8)!important}
 @keyframes scdrop{from{opacity:0;transform:translateY(-.6em)}}
 @keyframes scsp{0%{opacity:1;transform:none}100%{opacity:0;transform:translate(var(--dx),var(--dy)) scale(.2)}}
 @media (prefers-reduced-motion:reduce){.showcase .scrays,.showcase .sccard,.showcase .sccard::after,.showcase .scsp{animation:none}.showcase .scsp{display:none}}
+
+/* how many trees the garden holds, beside the hand */
+.treecap{align-self:center;margin-left:.6em;padding:.25em .7em;font-weight:700;font-size:.85em;white-space:nowrap;color:#d8ffb0;background:#0c0614cc;box-shadow:0 0 0 2px #2a1206}
+.treecap.full{color:#ffb060;animation:rareglow 1.6s ease-in-out infinite}

diff --git a/README.md b/README.md
@@ -20,6 +20,9 @@ Ferramentas e barreiras têm quatro feitios: madeira, bronze, ferro e ouro (`MAT
 
 O relevo de cada fase ganha morros, vales e pequenos degraus de pedra por cima do desenho feito à mão, além de ilhotas extras em alturas diferentes. Nas fases de noite o escuro é azul profundo, com lanternas de chama azul pelo caminho, musgo e pragas com contorno de luz.
 
+## Códex que se descobre
+Fusões e evoluções aparecem como "???" no Códex até serem feitas numa batalha ou no Altar. Há conquistas para descobrir todas.
+
 ## Fases de chefe
 Cada mundo termina numa fase X-5 só do chefe, que abre depois da X-4 e libera o mundo seguinte. Fases já vencidas continuam abertas. Nela não há bolsa nem maná: uma carroça traz cartas escolhidas para aquele chefe, um cronômetro corre (quando zera, o chefe avança em fúria) e cada chefe tem uma regra própria para ser derrotado:
 
@@ -32,6 +35,8 @@ Cada mundo termina numa fase X-5 só do chefe, que abre depois da X-4 e libera o
 | 5-5 | Ninrode | aprende cada golpe: misture árvores diferentes |
 | 6-5 | Leviatã | escamas fechadas; pisão no anzol quando ele passar perto |
 | 7-5 | A Sombra da Morte | só sente perto das lâmpadas acesas com pisões; as três juntas a fazem recuar |
+
+Três fases jogam em outro modo: na de Golias e na do Bezerro o jardim já começa plantado e a carroça só traz bênçãos; a de Ninrode é na neblina, e só se vê perto do lavrador. Setas na tela mostram onde agir (cabeça da Serpente depois do bote, pedras, anzol, lâmpadas apagadas), e na fúria cada chefe ganha um ataque a mais.
 
 Os dados ficam em `BSTAGE` (`js/content.js`) e a lógica em `js/bosses.js`. Os chefes são desenhados 1,5x maiores (`BOSS_SCALE`).
 
